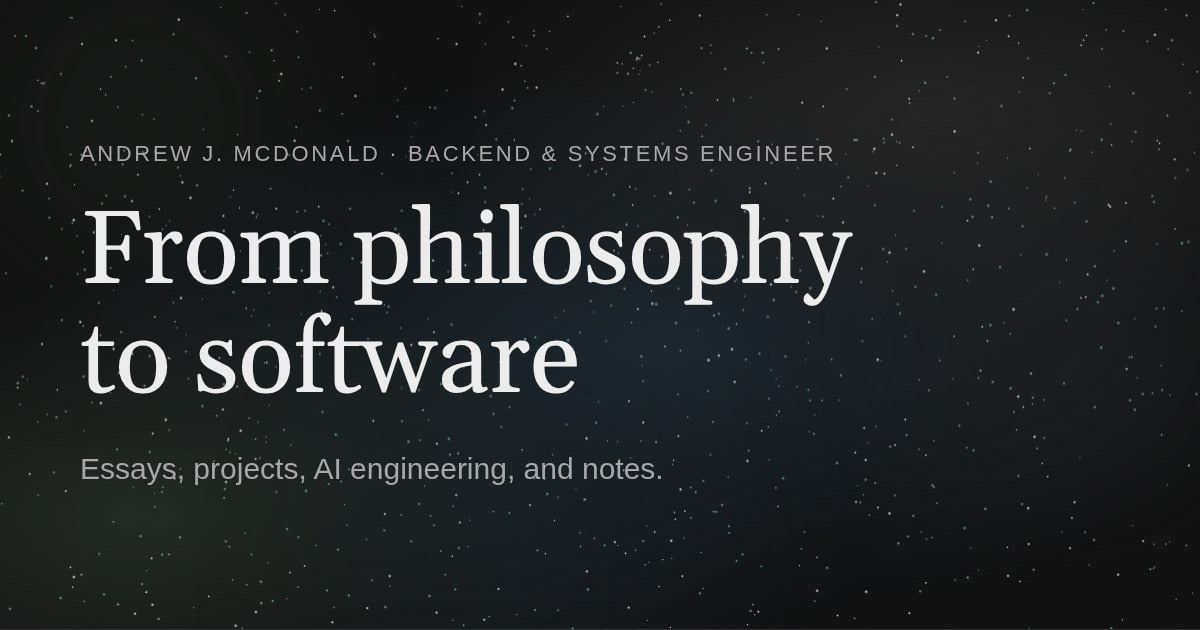
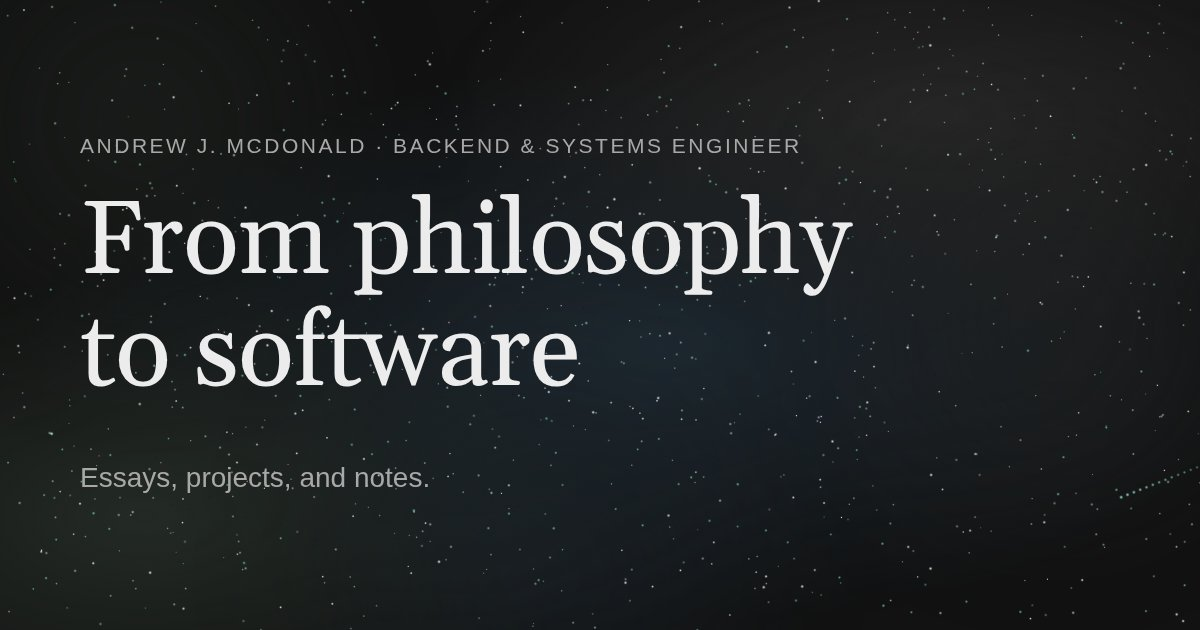
content: drop AI engineering from the hero standfirst (#90)
## Change

The homepage hero listed "essays, projects, AI engineering, and notes".
Essays, projects, and notes are formats, but AI engineering is a topic.
AI work already fits inside essays and projects, and the nav still links
the AI Engineering section.

This PR shortens the line to "A personal collection of essays, projects,
and notes." It also:

- updates the default share-image alt text to match;
- re-renders `static/img/share.jpg` (the hero still used as the default
og:image) so it reads "Essays, projects, and notes." The size is
unchanged (1200×630).

The RSS feed description is a separate sentence and is unchanged.

After deploy, re-scrape the homepage in the Facebook Sharing Debugger so
previews pick up the new image.

## Visual review

- [ ] None. This PR has no visible change.
- [x] Changed. This PR changes a visible page or interaction.

Affected routes: `/` (hero standfirst); default social share image for
pages without a cover.

Cloudflare preview URL: see the Cloudflare Pages check on this PR.

Checked: share image reviewed at 1200×630. Hero text change only; layout
is unchanged.

Intentional deviations from
[STYLE.md](https://github.com/famesjranko/blog/blob/main/STYLE.md): None

Visual sign-off: Andy

diff --git a/src/html/home.ts b/src/html/home.ts
@@ -19,8 +19,7 @@ const HERO_EYEBROW = ["BACKEND & SYSTEMS ENGINEER", "MELBOURNE"]
 	.map((phrase) => phrase.replaceAll(" ", " "))
 	.join(" · ");
 const HERO_TITLE_LINES = ["From philosophy", "to software"];
-const HERO_STANDFIRST =
-	"A personal collection of essays, projects, AI engineering, and notes.";
+const HERO_STANDFIRST = "A personal collection of essays, projects, and notes.";
 
 const SECTION_NAMES: Record<HomeSection, string> = {
 	essays: "Essays",

diff --git a/src/html/layout.ts b/src/html/layout.ts
@@ -112,7 +112,7 @@ const THEME_BOOT_SCRIPT =
  */
 const DEFAULT_SOCIAL_IMAGE = "/img/share.jpg";
 const DEFAULT_SOCIAL_IMAGE_ALT =
-	"From philosophy to software: essays, projects, AI engineering, and notes by Andrew J. McDonald";
+	"From philosophy to software: essays, projects, and notes by Andrew J. McDonald";
 
 /**
  * Image tags for link previews. The size lets a scraper lay out the card

diff --git a/src/html/home.test.ts b/src/html/home.test.ts
@@ -131,7 +131,7 @@ describe("homePage hero copy", () => {
 	it("renders the personal-collection standfirst", () => {
 		const html = homePage(content());
 		expect(html).toContain(
-			"A personal collection of essays, projects, AI engineering, and notes.",
+			"A personal collection of essays, projects, and notes.",
 		);
 	});
 });
